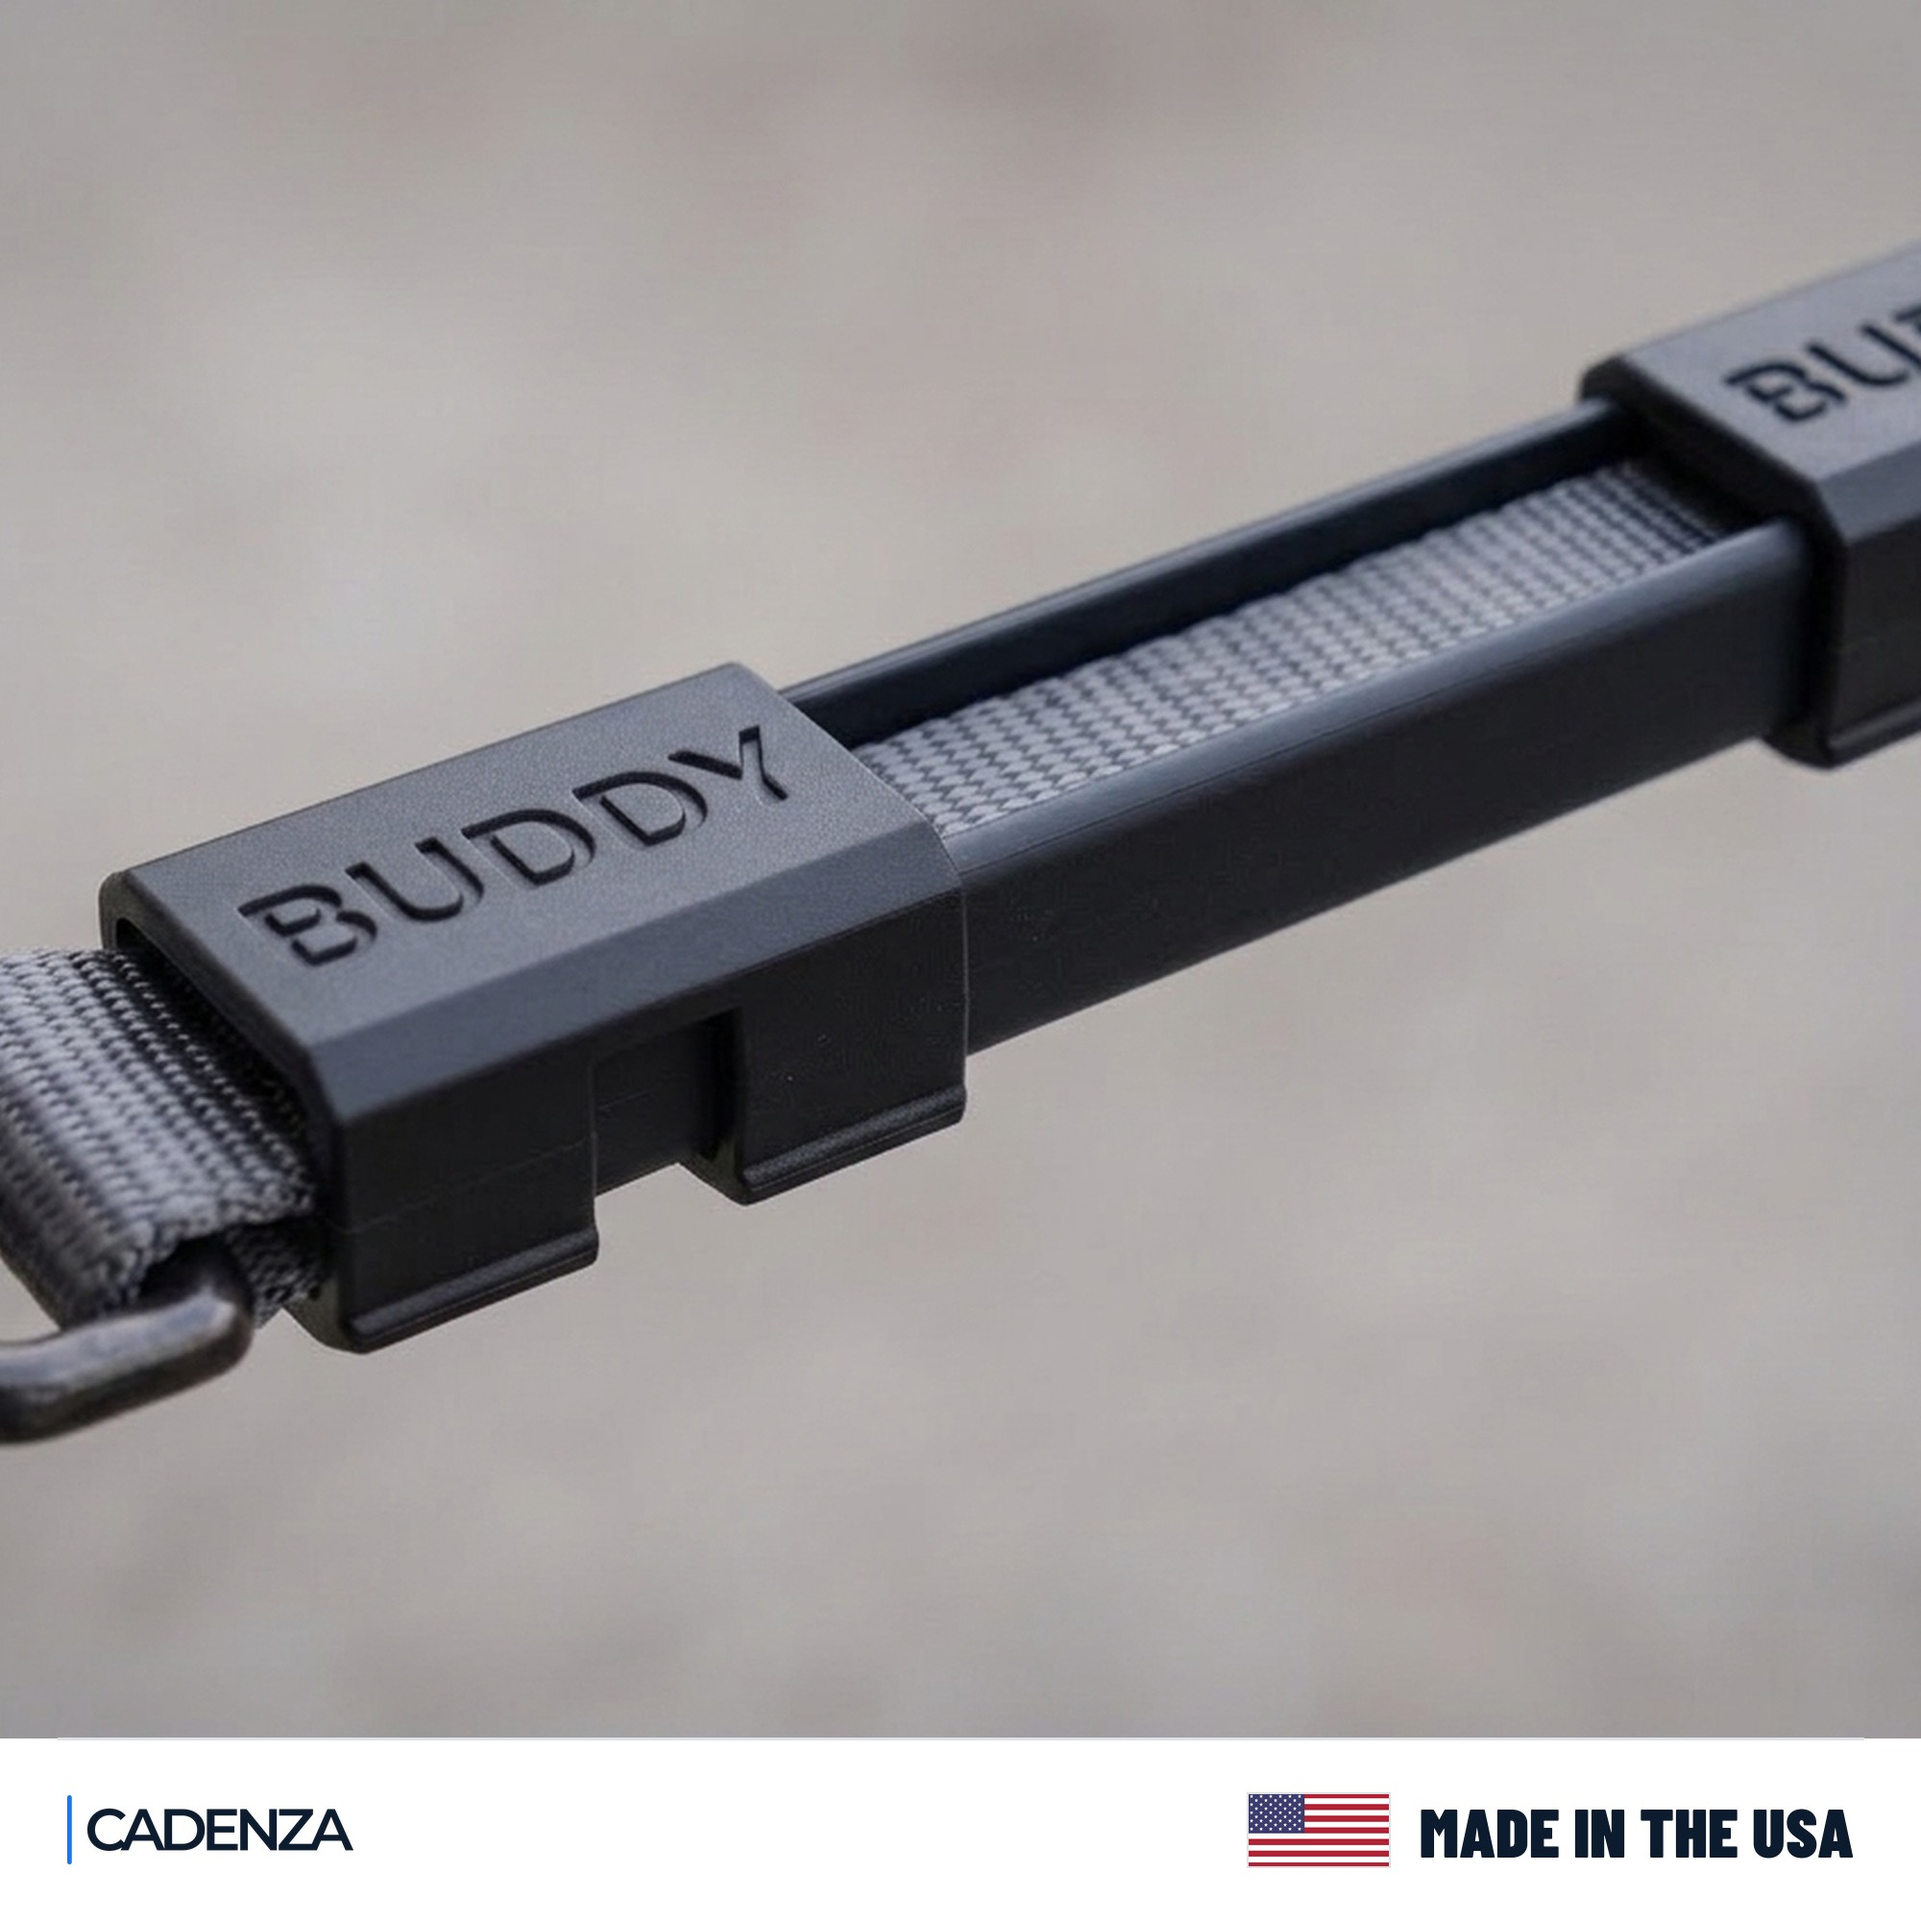
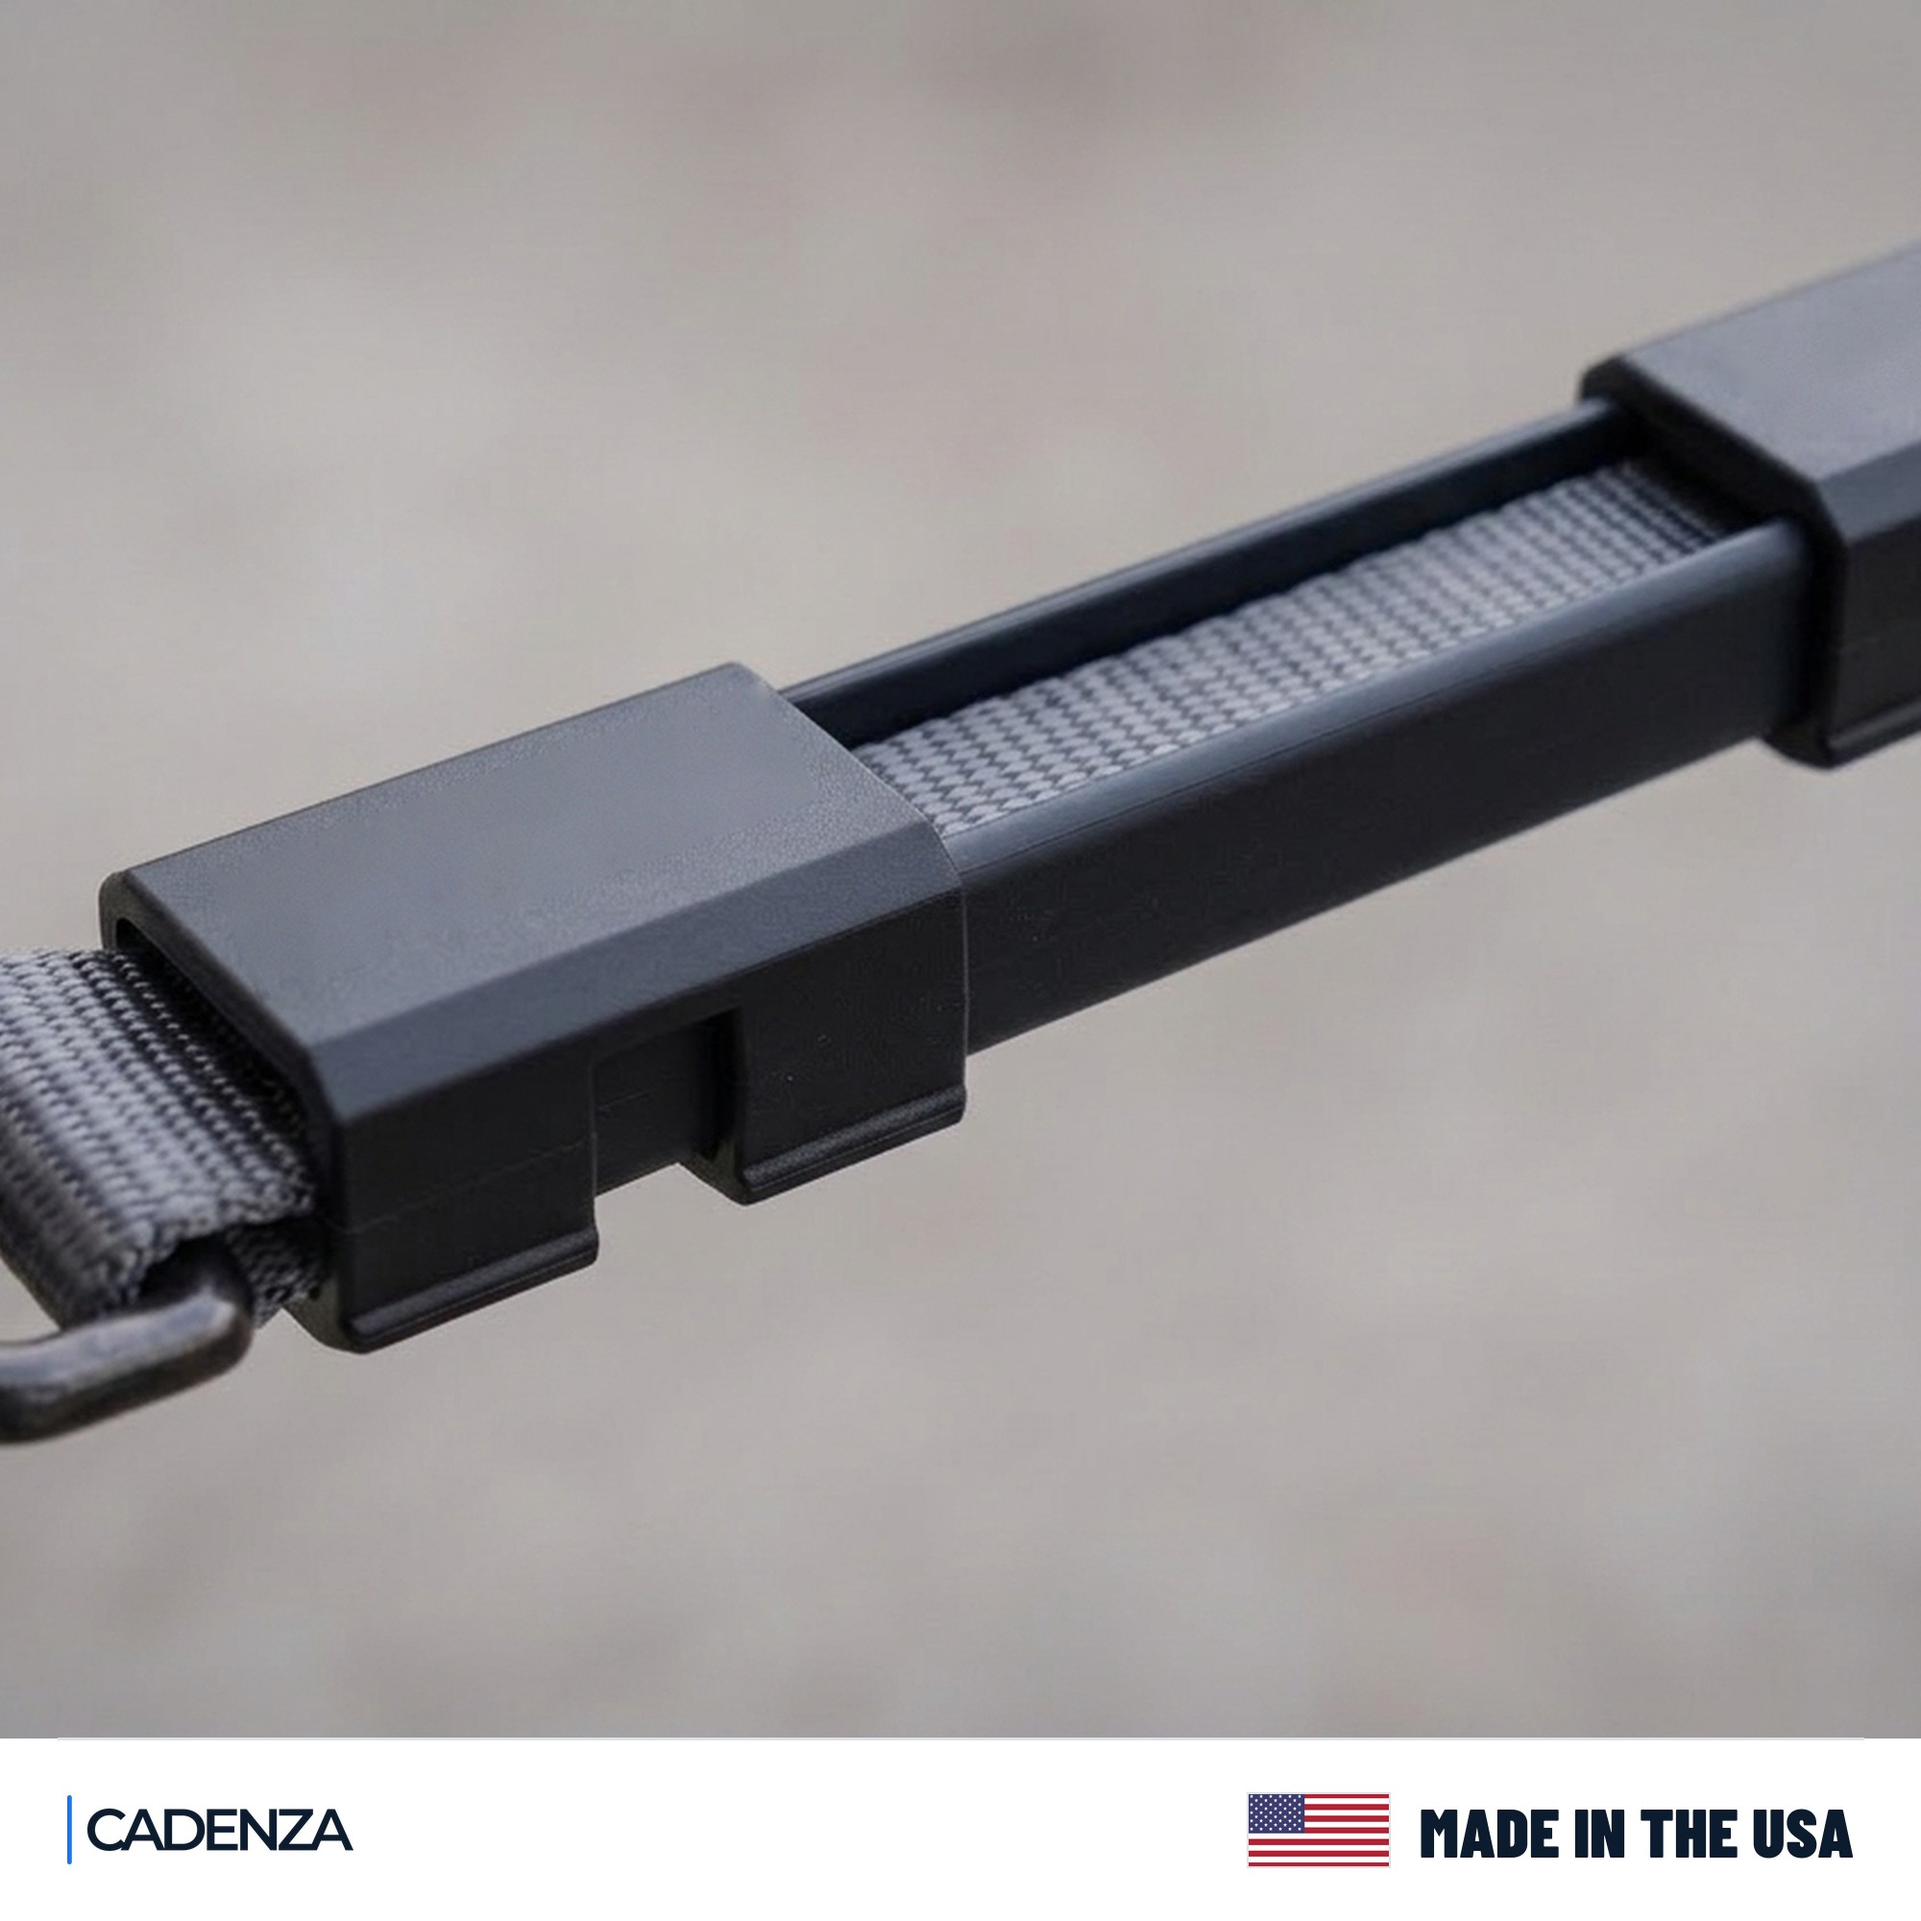
No-Trip Amazon: plain-Black close-up without BUDDY (#11)
* No-Trip Amazon: plain-Black PT05 close-up without "BUDDY"

KP-NT.PT05 is the close-up in the plain-Black gallery (Black - Plain, No Name),
but its clips read "BUDDY", which that variant does not have. The lettering was
inpainted off both clip tops locally (OpenCV, no new AI image), then re-framed
with compose.py's photo_im so the plate matches the rest of the set.

* plain_set: tidy the docstring note

---------

Changed region(s): [[0.124, 0.372, 0.403, 0.527], [0.899, 0.155, 1.0, 0.217]]

diff --git a/tools/notrip-v51/plain_set.py b/tools/notrip-v51/plain_set.py
@@ -1,7 +1,9 @@
 """The plain-black versions of the key scenes, ready for compose.py.
 
 ai/plain-*.png are the key scenes re-shot with a black sleeve and black clips on a grey leash
-(one Gemini 2.1 edit each). Here they are paired into BEFORE/AFTER images exactly like the
+(one Gemini 2.1 edit each; plain-detail-clip-1.png then had "BUDDY" inpainted off both clip tops
+locally on 2026-11-05, since the plain variants ship with blank tops - the original is
+ai/plain-detail-clip-1-buddy.png). Here they are paired into BEFORE/AFTER images exactly like the
 colour ones - two 1024 panels, an 8 px white gutter - and labelled with the NoTrip folder's
 own label_pairs.label, so both families' pairs look the same.
 
